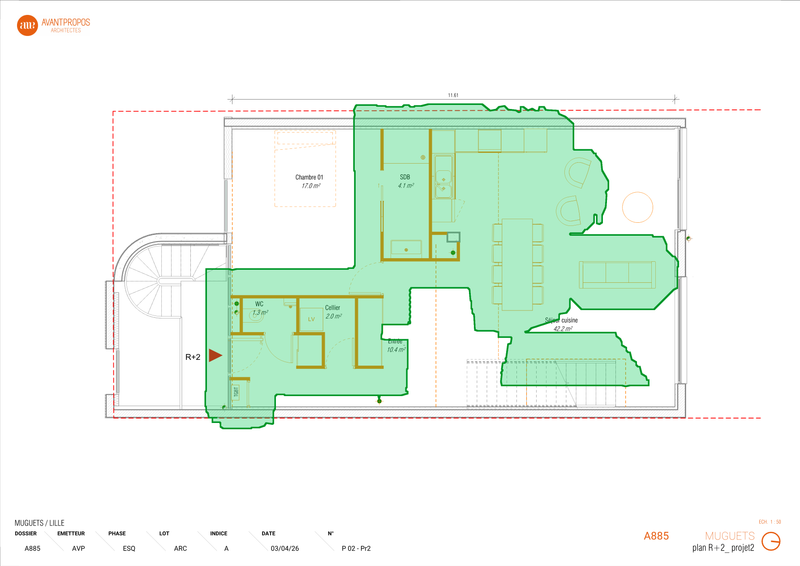
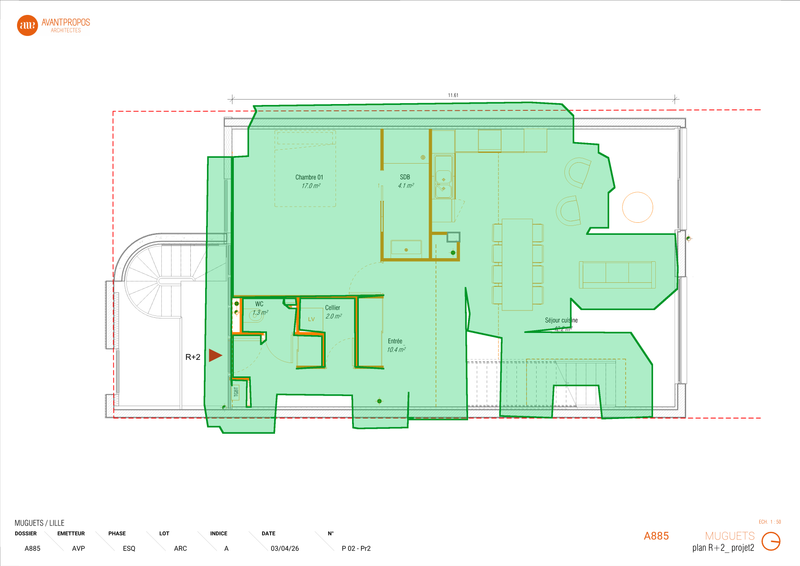
feat(vs/s27): morphologie + filtre hachures denses + redressement orthogonal

diff --git a/versi-studio/src/lib/vs/color-mask-extractor.ts b/versi-studio/src/lib/vs/color-mask-extractor.ts
@@ -84,6 +84,29 @@ export type ColorMaskOptions = {
    * Default : 'bbox'.
    */
   outputMode?: "bbox" | "trace";
+  /**
+   * Rayon d'ouverture morphologique sur le masque orange (px).
+   * Élimine les fines lignes de hachures (terrasses, escaliers extérieurs)
+   * tout en préservant les murs structurels épais. 0 = désactivé.
+   * Default : 2.
+   */
+  morphOpenRadius?: number;
+  /**
+   * Rayon de fermeture morphologique sur le masque orange (px).
+   * Comble les pointillés (murs en lignes interrompues, ex Chambre 01 R+2)
+   * pour qu'ils soient traités comme des murs continus dans la détection
+   * habitable. 0 = désactivé.
+   * Default : 6.
+   */
+  morphCloseRadius?: number;
+  /**
+   * Snap orthogonal sur les segments du polygone (mode trace) : chaque
+   * segment dont l'angle est ≤ orthogonalToleranceDeg de l'horizontale
+   * ou la verticale est aligné sur cette direction. Élimine les "festons"
+   * sur les murs droits. 0 = désactivé.
+   * Default : 12 (degrés).
+   */
+  orthogonalToleranceDeg?: number;
 };
 
 export type ColorRange = {
@@ -141,6 +164,9 @@ export async function extractLotsByColorMask(
   const useMarchingSquares = options.useMarchingSquares ?? true;
   const snapRadius = options.snapRadius ?? sampleStride * 8;
   const outputMode = options.outputMode ?? "bbox";
+  const morphOpenRadius = options.morphOpenRadius ?? 2;
+  const morphCloseRadius = options.morphCloseRadius ?? 6;
+  const orthogonalToleranceDeg = options.orthogonalToleranceDeg ?? 12;
   const ratioMin = options.habitableRatioRange?.[0] ?? 0.005;
   const ratioMax = options.habitableRatioRange?.[1] ?? 0.3;
 
@@ -177,25 +203,100 @@ export async function extractLotsByColorMask(
       }
     }
   }
-  const totalOrange = orangeMask.reduce((a, b) => a + b, 0);
-  if (totalOrange === 0) {
+  const totalOrangeRaw = orangeMask.reduce((a, b) => a + b, 0);
+  if (totalOrangeRaw === 0) {
     throw new ColorMaskExtractorError(
       "no_mask",
       "Aucun pixel ne correspond aux couleurs cibles",
     );
   }
 
-  // Integral image pour comptage O(1) des pixels orange dans n'importe quel rectangle
+  // Pré-traitement morphologique :
+  //  - structuralMask : open(orange, openR) PUIS retire les zones de hachures
+  //    denses (densité orange > 50% dans 30px = pattern hachuré, pas mur isolé).
+  //    Sert pour le snap-to-wall final + intégral image (ratio habitable).
+  //  - habitableInputMask : close(orange, closeR) → comble les pointillés.
+  //    Sert pour le test "est-ce que ce pixel est un mur" (skip dans l'analyse).
+  let structuralMask =
+    morphOpenRadius > 0
+      ? morphDilate(morphErode(orangeMask, W, H, morphOpenRadius), W, H, morphOpenRadius)
+      : new Uint8Array(orangeMask);
+  // Détection des zones de hachures : pixels orange dans une fenêtre où la
+  // densité orange dépasse un seuil élevé (= pattern hachuré uniforme, pas mur
+  // isolé). Calcul via integral image temporaire.
+  // hachureMask = 1 si pixel orange ET dans zone dense (patio/escalier ext.)
+  const denseFilterRadius = 25;
+  const denseFilterThreshold = 0.5;
+  const hachureMask = new Uint8Array(W * H);
+  {
+    const tmpInt = new Int32Array((W + 1) * (H + 1));
+    for (let y = 1; y <= H; y++) {
+      for (let x = 1; x <= W; x++) {
+        tmpInt[y * (W + 1) + x] =
+          orangeMask[(y - 1) * W + (x - 1)] +
+          tmpInt[(y - 1) * (W + 1) + x] +
+          tmpInt[y * (W + 1) + (x - 1)] -
+          tmpInt[(y - 1) * (W + 1) + (x - 1)];
+      }
+    }
+    const dr = denseFilterRadius;
+    for (let y = 0; y < H; y++) {
+      for (let x = 0; x < W; x++) {
+        if (orangeMask[y * W + x] === 0) continue;
+        const x0 = Math.max(0, x - dr), y0 = Math.max(0, y - dr);
+        const x1 = Math.min(W, x + dr), y1 = Math.min(H, y + dr);
+        const sum =
+          tmpInt[y1 * (W + 1) + x1] -
+          tmpInt[y0 * (W + 1) + x1] -
+          tmpInt[y1 * (W + 1) + x0] +
+          tmpInt[y0 * (W + 1) + x0];
+        const area = (x1 - x0) * (y1 - y0);
+        if (sum / area >= denseFilterThreshold) {
+          hachureMask[y * W + x] = 1;
+          structuralMask[y * W + x] = 0; // retire de structural aussi
+        }
+      }
+    }
+  }
+  const habitableInputMask =
+    morphCloseRadius > 0
+      ? morphErode(morphDilate(orangeMask, W, H, morphCloseRadius), W, H, morphCloseRadius)
+      : orangeMask;
+  const totalOrange = structuralMask.reduce((a, b) => a + b, 0);
+
+  // Integral image sur habitableInputMask (= orangeMask close, pointillés comblés).
+  // Le ratio habitable mesure la densité de murs dans le voisinage.
   const integral = new Int32Array((W + 1) * (H + 1));
   for (let y = 1; y <= H; y++) {
     for (let x = 1; x <= W; x++) {
       integral[y * (W + 1) + x] =
-        orangeMask[(y - 1) * W + (x - 1)] +
+        habitableInputMask[(y - 1) * W + (x - 1)] +
         integral[(y - 1) * (W + 1) + x] +
         integral[y * (W + 1) + (x - 1)] -
         integral[(y - 1) * (W + 1) + (x - 1)];
     }
   }
+  // Integral image sur hachureMask (vraies zones hachurées denses).
+  const hatchInt = new Int32Array((W + 1) * (H + 1));
+  for (let y = 1; y <= H; y++) {
+    for (let x = 1; x <= W; x++) {
+      hatchInt[y * (W + 1) + x] =
+        hachureMask[(y - 1) * W + (x - 1)] +
+        hatchInt[(y - 1) * (W + 1) + x] +
+        hatchInt[y * (W + 1) + (x - 1)] -
+        hatchInt[(y - 1) * (W + 1) + (x - 1)];
+    }
+  }
+  const sumHatchInRect = (x0: number, y0: number, x1: number, y1: number) => {
+    x0 = Math.max(0, x0); y0 = Math.max(0, y0);
+    x1 = Math.min(W, x1); y1 = Math.min(H, y1);
+    return (
+      hatchInt[y1 * (W + 1) + x1] -
+      hatchInt[y0 * (W + 1) + x1] -
+      hatchInt[y1 * (W + 1) + x0] +
+      hatchInt[y0 * (W + 1) + x0]
+    );
+  };
   const sumInRect = (x0: number, y0: number, x1: number, y1: number) => {
     x0 = Math.max(0, x0); y0 = Math.max(0, y0);
     x1 = Math.min(W, x1); y1 = Math.min(H, y1);
@@ -221,12 +322,18 @@ export async function extractLotsByColorMask(
     if (y < yMin || y > yMax) continue;
     for (let gx = 0; gx < gridW; gx++) {
       const x = gx * sampleStride;
-      if (orangeMask[y * W + x] === 1) continue;
+      if (habitableInputMask[y * W + x] === 1) continue;
       const orangeCount = sumInRect(x - R, y - R, x + R, y + R);
+      const hatchCount = sumHatchInRect(x - R, y - R, x + R, y + R);
       const totalCount =
         (Math.min(W, x + R) - Math.max(0, x - R)) *
         (Math.min(H, y + R) - Math.max(0, y - R));
       const ratio = orangeCount / totalCount;
+      const hatchRatio = hatchCount / totalCount;
+      // Rejette si trop de hachures dans le voisinage (= adjacent à terrasse,
+      // escalier ext., etc.) — la cellule habitable doit être bordée de murs
+      // structurels, pas d'éléments hachurés extérieurs.
+      if (hatchRatio > 0.04) continue;
       if (ratio >= ratioMin && ratio <= ratioMax) {
         habitable[gy * gridW + gx] = 1;
       }
@@ -301,7 +408,7 @@ export async function extractLotsByColorMask(
             const x = val + dx * dir;
             if (x < 0 || x >= W) break;
             for (let y = Math.floor(min); y <= Math.ceil(max); y += 4) {
-              if (orangeMask[y * W + x] === 1) { best = x; return best; }
+              if (structuralMask[y * W + x] === 1) { best = x; return best; }
             }
           }
         } else {
@@ -309,7 +416,7 @@ export async function extractLotsByColorMask(
             const y = val + dy * dir;
             if (y < 0 || y >= H) break;
             for (let x = Math.floor(min); x <= Math.ceil(max); x += 4) {
-              if (orangeMask[y * W + x] === 1) { best = y; return best; }
+              if (structuralMask[y * W + x] === 1) { best = y; return best; }
             }
           }
         }
@@ -359,15 +466,18 @@ export async function extractLotsByColorMask(
       if (hull.length < 3) continue;
     }
 
-    // Snap-to-wall : pour chaque sommet, projeter sur le pixel orange
-    // le plus proche dans un rayon snapRadius. Précision finale au pixel.
+    // Snap-to-wall : pour chaque sommet, projeter sur le pixel STRUCTURAL
+    // (mur épais, hachures déjà éliminées) le plus proche dans rayon snapRadius.
     if (snapRadius > 0) {
-      hull = hull.map((p) => snapToOrangePixel(p, orangeMask, W, H, snapRadius));
+      hull = hull.map((p) => snapToOrangePixel(p, structuralMask, W, H, snapRadius));
     }
 
-    const simplified = simplifyTolerance > 0
+    let simplified = simplifyTolerance > 0
       ? douglasPeucker(hull, simplifyTolerance)
       : hull;
+    if (orthogonalToleranceDeg > 0) {
+      simplified = orthogonalize(simplified, orthogonalToleranceDeg);
+    }
     polygons.push(simplified);
   }
 
@@ -694,4 +804,134 @@ function douglasPeucker(points: Pt[], tolerance: number): Pt[] {
   recurse(0, points.length - 1, keep);
   keep.push(points.length - 1);
   return keep.sort((a, b) => a - b).map((i) => points[i]);
+}
+
+/**
+ * Dilation morphologique 1D-décomposée (carré r×r). O(W*H) au lieu de
+ * O(W*H*r²). Utilise un buffer temporaire pour le passage horizontal.
+ */
+function morphDilate(mask: Uint8Array, W: number, H: number, r: number): Uint8Array {
+  if (r <= 0) return mask;
+  const tmp = new Uint8Array(W * H);
+  // Horizontal
+  for (let y = 0; y < H; y++) {
+    const rowOff = y * W;
+    for (let x = 0; x < W; x++) {
+      const x0 = Math.max(0, x - r), x1 = Math.min(W - 1, x + r);
+      let any = 0;
+      for (let xx = x0; xx <= x1; xx++) {
+        if (mask[rowOff + xx]) { any = 1; break; }
+      }
+      tmp[rowOff + x] = any;
+    }
+  }
+  const out = new Uint8Array(W * H);
+  // Vertical
+  for (let x = 0; x < W; x++) {
+    for (let y = 0; y < H; y++) {
+      const y0 = Math.max(0, y - r), y1 = Math.min(H - 1, y + r);
+      let any = 0;
+      for (let yy = y0; yy <= y1; yy++) {
+        if (tmp[yy * W + x]) { any = 1; break; }
+      }
+      out[y * W + x] = any;
+    }
+  }
+  return out;
+}
+
+/**
+ * Erosion morphologique 1D-décomposée (carré r×r).
+ */
+function morphErode(mask: Uint8Array, W: number, H: number, r: number): Uint8Array {
+  if (r <= 0) return mask;
+  const tmp = new Uint8Array(W * H);
+  for (let y = 0; y < H; y++) {
+    const rowOff = y * W;
+    for (let x = 0; x < W; x++) {
+      const x0 = Math.max(0, x - r), x1 = Math.min(W - 1, x + r);
+      let all = 1;
+      for (let xx = x0; xx <= x1; xx++) {
+        if (!mask[rowOff + xx]) { all = 0; break; }
+      }
+      tmp[rowOff + x] = all;
+    }
+  }
+  const out = new Uint8Array(W * H);
+  for (let x = 0; x < W; x++) {
+    for (let y = 0; y < H; y++) {
+      const y0 = Math.max(0, y - r), y1 = Math.min(H - 1, y + r);
+      let all = 1;
+      for (let yy = y0; yy <= y1; yy++) {
+        if (!tmp[yy * W + x]) { all = 0; break; }
+      }
+      out[y * W + x] = all;
+    }
+  }
+  return out;
+}
+
+/**
+ * Snap orthogonal : pour chaque segment du polygone, si son angle est
+ * ≤ tolDeg de l'horizontale ou la verticale, redresser. Élimine les
+ * "festons" sur des murs droits sans toucher aux vrais coudes obliques.
+ *
+ * Implémentation : pour chaque sommet, on regarde le segment précédent et
+ * suivant. Si tous deux sont quasi-horizontaux, le sommet aligne son y sur
+ * la moyenne des y voisins. Pareil pour verticaux. Itération 2 passes.
+ */
+function orthogonalize(points: Pt[], tolDeg: number): Pt[] {
+  if (points.length < 3) return points;
+  const tolRad = (tolDeg * Math.PI) / 180;
+  let pts = points.slice();
+  for (let pass = 0; pass < 2; pass++) {
+    // Classifie chaque segment : 'H' (≤tol horizontal), 'V' (≤tol vertical), 'O' (oblique)
+    const segDir: ("H" | "V" | "O")[] = [];
+    for (let i = 0; i < pts.length; i++) {
+      const a = pts[i], b = pts[(i + 1) % pts.length];
+      const dx = b.x - a.x, dy = b.y - a.y;
+      const len = Math.hypot(dx, dy);
+      if (len === 0) { segDir.push("O"); continue; }
+      const angle = Math.atan2(Math.abs(dy), Math.abs(dx)); // 0..π/2
+      if (angle <= tolRad) segDir.push("H");
+      else if (Math.PI / 2 - angle <= tolRad) segDir.push("V");
+      else segDir.push("O");
+    }
+    // Pour chaque sommet, si segPrev='H' et segNext='H' → aligner y sur la moyenne.
+    // Si segPrev='V' et segNext='V' → aligner x.
+    const next = pts.map((p) => ({ x: p.x, y: p.y }));
+    for (let i = 0; i < pts.length; i++) {
+      const prevSeg = segDir[(i - 1 + pts.length) % pts.length];
+      const nextSeg = segDir[i];
+      const a = pts[(i - 1 + pts.length) % pts.length];
+      const b = pts[(i + 1) % pts.length];
+      if (prevSeg === "H" && nextSeg === "H") {
+        next[i].y = Math.round((a.y + b.y) / 2);
+      } else if (prevSeg === "V" && nextSeg === "V") {
+        next[i].x = Math.round((a.x + b.x) / 2);
+      } else if (prevSeg === "H" && nextSeg === "V") {
+        // Coin propre : aligner x sur b.x et y sur a.y
+        next[i].x = b.x;
+        next[i].y = a.y;
+      } else if (prevSeg === "V" && nextSeg === "H") {
+        next[i].x = a.x;
+        next[i].y = b.y;
+      }
+    }
+    pts = next;
+  }
+  // Supprime sommets colinéaires consécutifs (3 points alignés → 2 sommets)
+  const out: Pt[] = [];
+  for (let i = 0; i < pts.length; i++) {
+    const a = pts[(i - 1 + pts.length) % pts.length];
+    const b = pts[i];
+    const c = pts[(i + 1) % pts.length];
+    const dx1 = b.x - a.x, dy1 = b.y - a.y;
+    const dx2 = c.x - b.x, dy2 = c.y - b.y;
+    const cross = dx1 * dy2 - dy1 * dx2;
+    const dotSign = dx1 * dx2 + dy1 * dy2;
+    if (Math.abs(cross) < 1 && dotSign > 0) continue; // colinéaire même sens → omettre b
+    out.push(b);
+  }
+  return out;
 }

diff --git a/versi-studio/scripts/qa/autopilot-render-all.ts b/versi-studio/scripts/qa/autopilot-render-all.ts
@@ -22,13 +22,16 @@ const OPTS: ColorMaskOptions = {
   sampleStride: 4,
   habitableRadius: 120,
   habitableRatioRange: [0.005, 0.3],
-  simplifyTolerance: 3,
-  snapRadius: 16,
+  simplifyTolerance: 14,
+  snapRadius: 20,
   useMarchingSquares: true,
   excludeTopFraction: 0.18,
   excludeBottomFraction: 0.18,
   singleCluster: true,
   outputMode: "trace",
+  morphOpenRadius: 2,
+  morphCloseRadius: 6,
+  orthogonalToleranceDeg: 25,
 };
 
 async function renderRaw(png: Buffer, poly: Pt[]): Promise<Buffer> {
